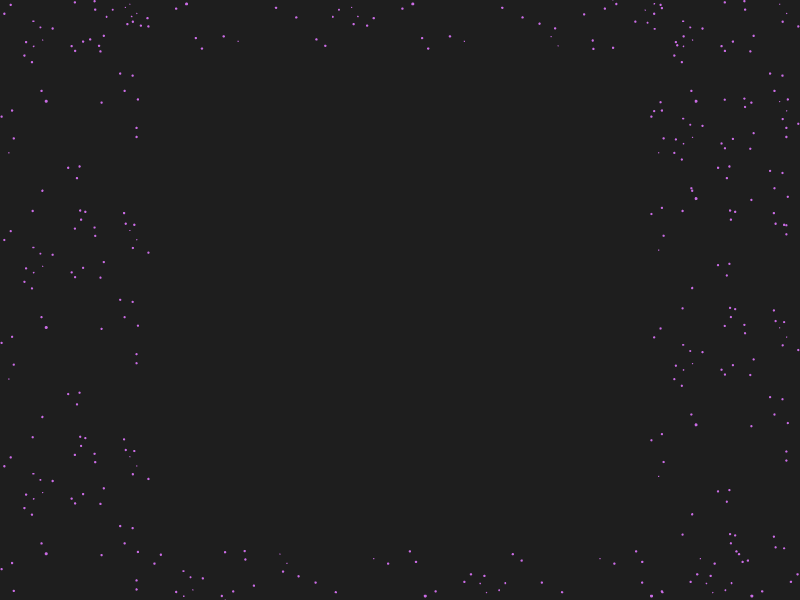
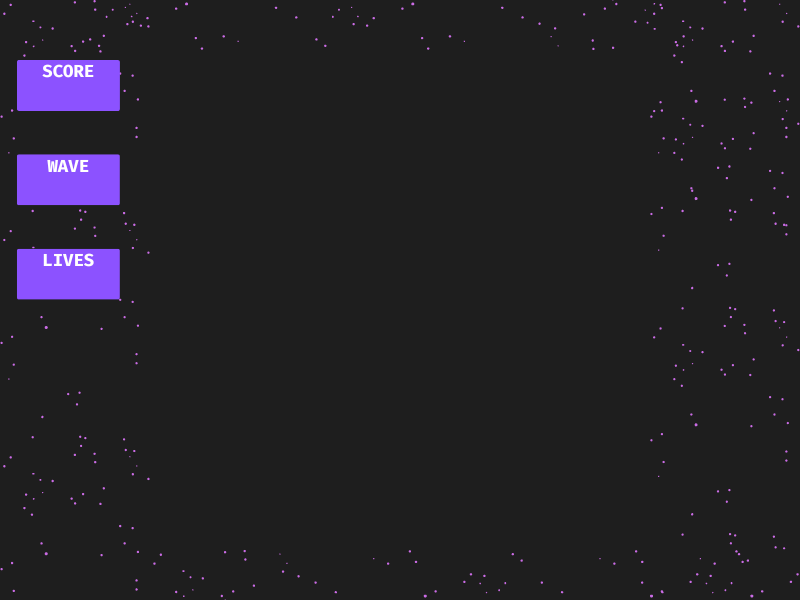
added title screen

Changed region(s): [[0.0, 0.24, 0.1562, 0.36], [0.0, 0.39, 0.1562, 0.51], [0.0, 0.09, 0.1562, 0.21]]

diff --git a/main.py b/main.py
@@ -11,6 +11,8 @@ pygame.display.set_caption("Arachnoids")
 clock = pygame.time.Clock()
 
 BG = pygame.image.load("gfx/background.png").convert()
+TITLE = pygame.image.load("gfx/title_screen.png").convert()
+HOW_TO = pygame.image.load("gfx/how_to.png").convert()
 
 game_spider = Spider()
 nodes = pygame.sprite.Group()
@@ -43,97 +45,107 @@ if __name__ == "__main__":
 
     wave_count = 0
     running = True
+    title_screen = True
+    how_to_screen = False
     while running:
 
-        for event in pygame.event.get():
-            if event.type == pygame.QUIT:
-                pygame.quit()
-            # elif event.type == KEYDOWN:
-            #     if event.key == K_w:
-            #         game_spider.update("up", nodes)
-            #     elif event.key == K_s:
-            #         game_spider.update("down", nodes)
-            #     elif event.key == K_a:
-            #         game_spider.update("left", nodes)
-            #     elif event.key == K_d:s
-            #         game_spider.update("right", nodes)
+        if title_screen:
+            game_screen.blit(TITLE, (0,0))
+            for event in pygame.event.get():
+                if event.type == MOUSEBUTTONDOWN:
+                    title_screen = False
+            pygame.display.flip()
             
-            elif event.type == MOUSEBUTTONDOWN:
-                mouse_x, mouse_y = pygame.mouse.get_pos()
-                vector_x, vector_y = mouse_x - game_spider.x, mouse_y - game_spider.y
-                bullet_angle = math.degrees(math.atan2(-vector_y, +vector_x))
+        else:
+            for event in pygame.event.get():
+                if event.type == pygame.QUIT:
+                    pygame.quit()
+                # elif event.type == KEYDOWN:
+                #     if event.key == K_w:
+                #         game_spider.update("up", nodes)
+                #     elif event.key == K_s:
+                #         game_spider.update("down", nodes)
+                #     elif event.key == K_a:
+                #         game_spider.update("left", nodes)
+                #     elif event.key == K_d:s
+                #         game_spider.update("right", nodes)
                 
-                # rotating the spider
-                game_spider.rotate(bullet_angle)
+                elif event.type == MOUSEBUTTONDOWN:
+                    mouse_x, mouse_y = pygame.mouse.get_pos()
+                    vector_x, vector_y = mouse_x - game_spider.x, mouse_y - game_spider.y
+                    bullet_angle = math.degrees(math.atan2(-vector_y, +vector_x))
+                    
+                    # rotating the spider
+                    game_spider.rotate(bullet_angle)
 
-                # creating the Projectile
-                bullets.add(Projectile(game_spider.x + SIZE // 2,
-                                        game_spider.y + SIZE // 2,
-                                        vector_x, vector_y,
-                                        bullet_angle))
+                    # creating the Projectile
+                    bullets.add(Projectile(game_spider.x + SIZE // 2,
+                                            game_spider.y + SIZE // 2,
+                                            vector_x, vector_y,
+                                            bullet_angle))
 
-        keys = pygame.key.get_pressed()
-        directions = []
-        if keys[K_w] and not keys[K_s]:
-            directions.append("up")
-        if keys[K_s] and not keys[K_w]:
-            directions.append("down")
-        if keys[K_a] and not keys[K_d]:
-            directions.append("left")
-        if keys[K_d] and not keys[K_a]:
-            directions.append("right")
-    
+            keys = pygame.key.get_pressed()
+            directions = []
+            if keys[K_w] and not keys[K_s]:
+                directions.append("up")
+            if keys[K_s] and not keys[K_w]:
+                directions.append("down")
+            if keys[K_a] and not keys[K_d]:
+                directions.append("left")
+            if keys[K_d] and not keys[K_a]:
+                directions.append("right")
         
-        game_spider.update(directions, nodes)
+            
+            game_spider.update(directions, nodes)
 
-        game_screen.blit(BG, (0,0))
-        n: Node
-        for n in nodes:
-            if n.visible == True:
-                n.show(game_screen)
-
-        bullet: Projectile
-        for bullet in bullets:
-            if bullet.x > 800 or bullet.x < 0 or bullet.y > 600 or bullet.y < 0 or bullet.time > 50:
-                bullets.remove(bullet)
-            else:
-                bullet.time += 1
-                n: Node
-                for n in nodes:
-                    if bullet.rect.collidepoint(n.rect.x + 25, n.rect.y + 25):
-                        n.visible = True
-                
-                e: Enemy
-                for e in enemies:
-                    if e.rect.colliderect(bullet.rect):
-                        enemies.remove(e)
-                bullet.update()
-                bullet.show(game_screen)
-
-        enemy: Enemy
-        if len(enemies) == 0:
-            if game_wave == 5:
-                for i in range (game_wave): enemies.add(Enemy())
-                game_wave += 5
-            elif wave_count > 100:
-                for i in range (game_wave): enemies.add(Enemy())
-                game_wave += 5
-                wave_count = 0
-            else: wave_count += 1
-        for enemy in enemies:
-            if enemy.rect.colliderect(game_spider.rect):
-                running = False
+            game_screen.blit(BG, (0,0))
             n: Node
             for n in nodes:
-                if enemy.rect.collidepoint(n.rect.x + 25, n.rect.y + 25):
-                    n.visible = False
-            else:
-                enemy.update()
-                enemy.show(game_screen)
+                if n.visible == True:
+                    n.show(game_screen)
 
-        game_spider.show(game_screen)
+            bullet: Projectile
+            for bullet in bullets:
+                if bullet.x > 800 or bullet.x < 0 or bullet.y > 600 or bullet.y < 0 or bullet.time > 50:
+                    bullets.remove(bullet)
+                else:
+                    bullet.time += 1
+                    n: Node
+                    for n in nodes:
+                        if bullet.rect.collidepoint(n.rect.x + 25, n.rect.y + 25):
+                            n.visible = True
+                    
+                    e: Enemy
+                    for e in enemies:
+                        if e.rect.colliderect(bullet.rect):
+                            enemies.remove(e)
+                    bullet.update()
+                    bullet.show(game_screen)
 
-        clock.tick(30)
-        
-        pygame.display.flip()
+            enemy: Enemy
+            if len(enemies) == 0:
+                if game_wave == 5:
+                    for i in range (game_wave): enemies.add(Enemy())
+                    game_wave += 5
+                elif wave_count > 100:
+                    for i in range (game_wave): enemies.add(Enemy())
+                    game_wave += 5
+                    wave_count = 0
+                else: wave_count += 1
+            for enemy in enemies:
+                if enemy.rect.colliderect(game_spider.rect):
+                    running = False
+                n: Node
+                for n in nodes:
+                    if enemy.rect.collidepoint(n.rect.x + 25, n.rect.y + 25):
+                        n.visible = False
+                else:
+                    enemy.update()
+                    enemy.show(game_screen)
+
+            game_spider.show(game_screen)
+
+            clock.tick(30)
+            
+            pygame.display.flip()
     

diff --git a/enemy.py b/enemy.py
@@ -50,7 +50,7 @@ class Enemy(pygame.sprite.Sprite):
         elif ORIGINS[origin] == "left":
             return (150, randint(0, 550))
         elif ORIGINS[origin] == "right":
-            return (660, randint(0, 550))
+            return (600, randint(0, 550))
     
     def __random_vector (self) -> tuple:
         return (50 + (randint(0,9) * 50), 50 + (randint(0,9) * 50))

diff --git a/spider.py b/spider.py
@@ -12,6 +12,9 @@ class Spider (pygame.sprite.Sprite):
 
         self.x, self.y = 250, 250
 
+        self.lives = 3
+        self.score = 0
+
         self.direction = "down"
 
         self.sprite = pygame.image.load(SPRITE).convert_alpha()
